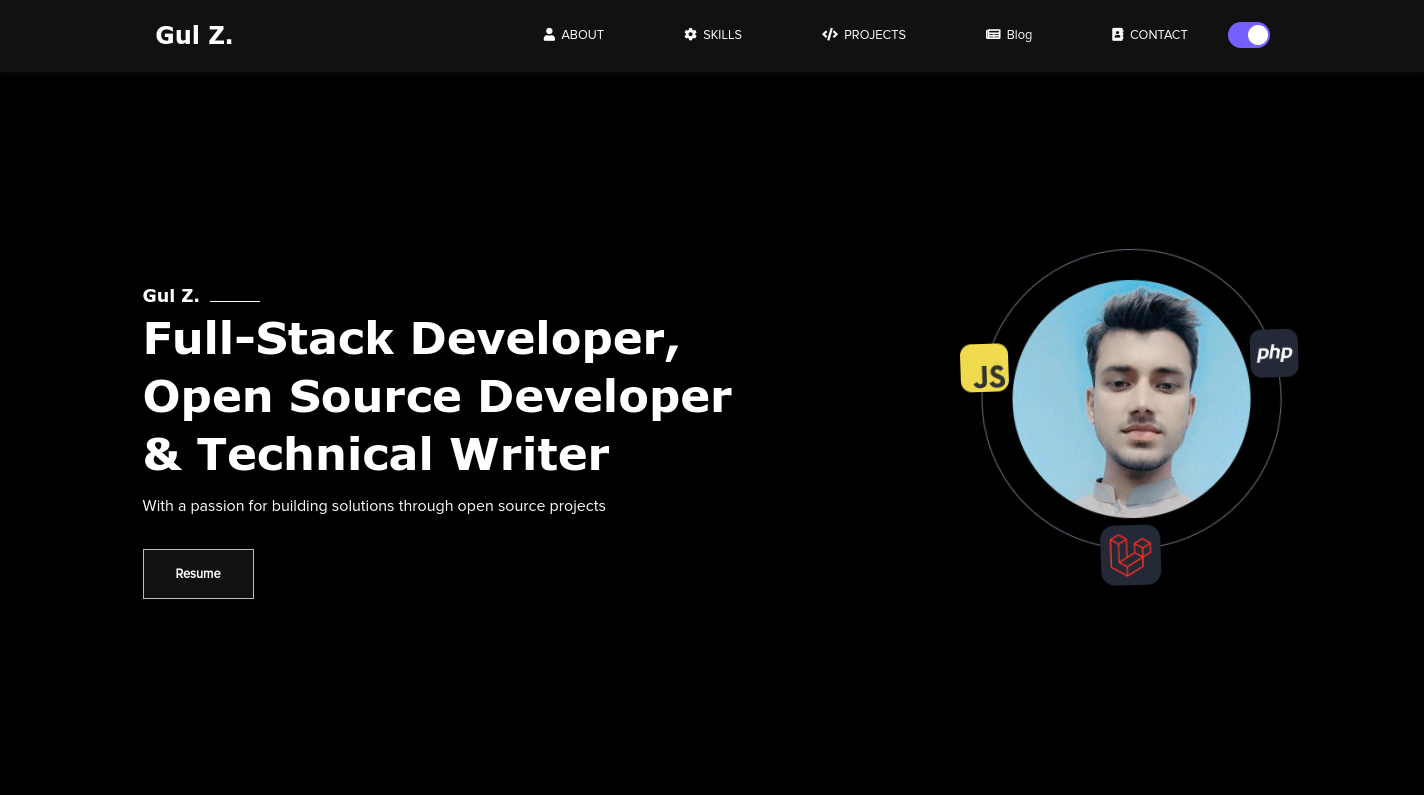
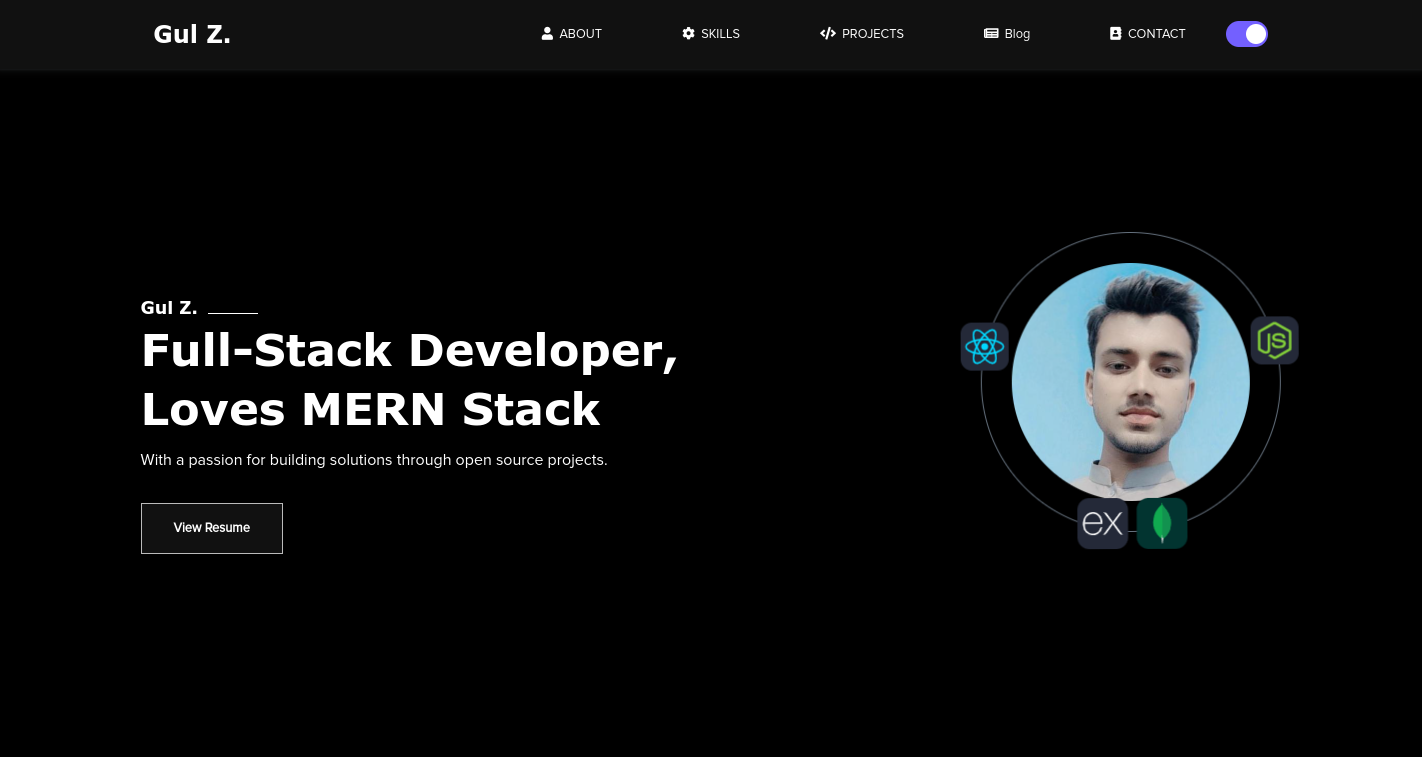
update: cv and preview image

diff --git a/index.html b/index.html
@@ -99,13 +99,14 @@
       <div class="content-text">
         <h1>Gul Z.<span class="underline"></span></h1>
         <h2 class="text-secondary">Full-Stack Developer,</h2>
-        <h2 class="text-secondary">Open Source Developer</h2>
-        <h2 class="text-secondary">& Technical Writer</h2>
+        <h2 class="text-secondary">Loves MERN Stack</h2>
+        <!-- <h2 class="text-secondary"></h2> -->
         <p>
-          With a passion for building solutions through open source projects
+          With a passion for building solutions through open source projects.
         </p>
-        <a href="https://docs.google.com/document/d/1zfGurPLEwqT6-QSCl4oQJ1yVDbGZCNDqo7iTOlgNPv0/edit?usp=sharing"
-          class="btn">Resume</a>
+        <a href="https://drive.google.com/file/d/17OqE5dccOFPiSF3dtS9RE_5ZaXnMMfLL/view?usp=sharing" class="btn"
+          target="_blank">View
+          Resume</a>
       </div>
       <div class="content-image">
         <div class="overlay-icons"></div>
